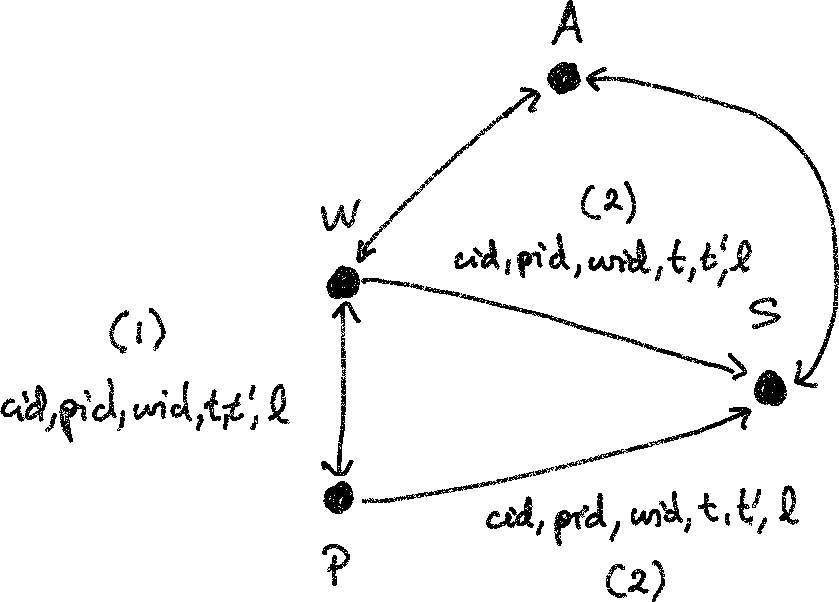
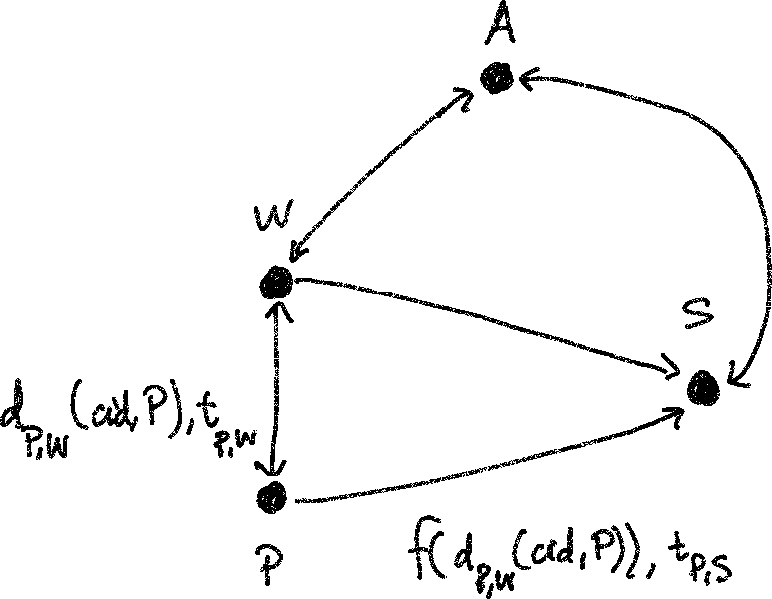
Writes up new system/adversary model

diff --git a/paper/adversary-model.tex b/paper/adversary-model.tex
@@ -1,21 +1,48 @@
 \subsection{System, communication and adversary model}%
 \label{adversary-model}
 
-We provide one communication/system model and three adversary models, with 
-varying strength of the adversary.
+We provide system model with three adversaries of varying strength.
+We will start with the base model and then successively increase the 
+adversary's strength.
 
-\paragraph{System model}
+\paragraph{The base protester-privacy model}
 
-\dots
+There are three players: the protest participant (with identity) \(P\), a 
+witness (with identity) \(W\) and the storage \(S\).
+The adversary \(A\) controls \(W\) and \(S\).
+
+The protester \(P\) and the witness \(W\) communicate.
+Each learn only the protocol data \(d_{P,W}(\cid, P)\) and when it happened 
+\(t_{P,W}\), but specifically \emph{not} the real identities \(P\) and \(W\) 
+directly --- only if it appears in the data \(d_{P,W}(\cid, P)\).
+The protester \(P\) communicates with \(S\), where \(S\) only learns 
+\(f(d_{P,W}(\cid, P))\), for some function \(f\), and the time of the 
+communication (\(t_{P,S}\)) but not the real identities.
+As the adversary controls \(W\) and \(S\) he learns everything that they do, 
+but can additionally correlate what he learns from \(W\) and \(S\).
 
 \begin{figure}
   \centering
   \includegraphics[width=\columnwidth]{system-model.png}
   \caption{\label{fig:system-model}%
     An overview of the system model.
+    The protester with real identity \(P\) and witness with real identity \(W\) 
+    communicate and each learn only the protocol data, \(d_{P,W}(\cid, P)\), 
+    and the time it happened, \(t_{P,W}\).
+    The protester submit some function of the protocol data \(f(d_{P,W}(\cid, 
+      P))\) to the storage \(S\), who learns only that and the time it 
+    happened, \(t_{P,S}\).
+    Both the witness \(W\) and storage \(S\) are controlled by the adversary 
+    \(A\).
   }
 \end{figure}
 
-\paragraph{Adversary model}
+\paragraph{A stronger adversary}
 
-\dots
+Now we define an adversary \(A^W\), where the witness \(W\) learns the 
+protester \(P\)'s identity.
+(\(P\) will also learn \(W\)'s identity.)
+However, \(S\) still does not learn \(P\)'s identity.
+
+We also define an adversary \(A^{W,S}\), where \(S\) also learns \(P\)'s 
+identity.
